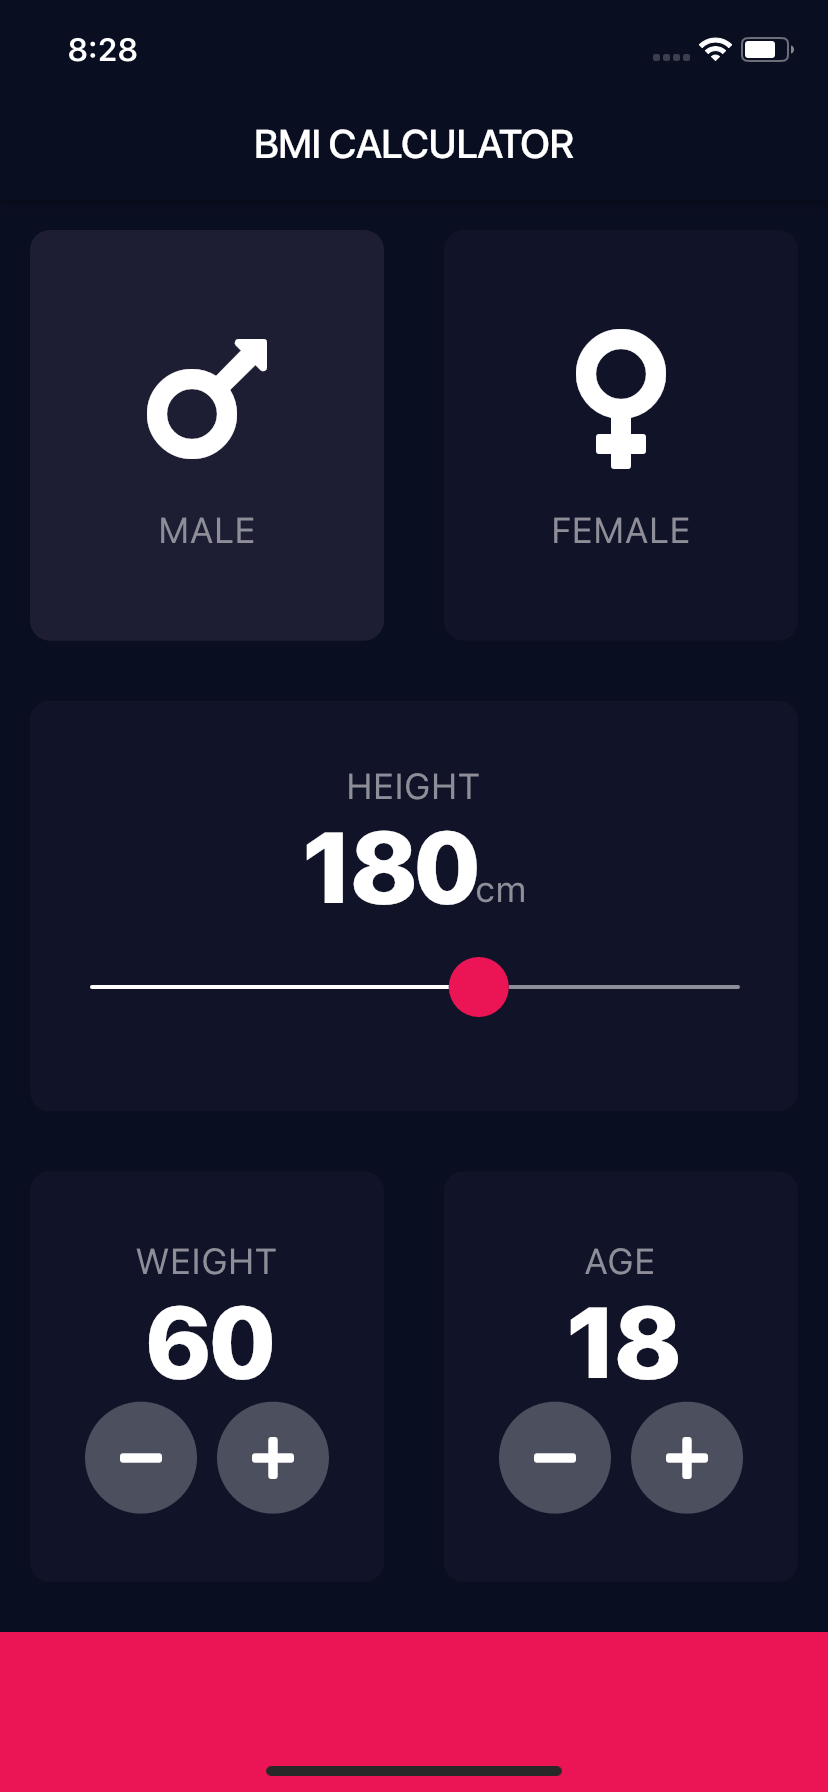
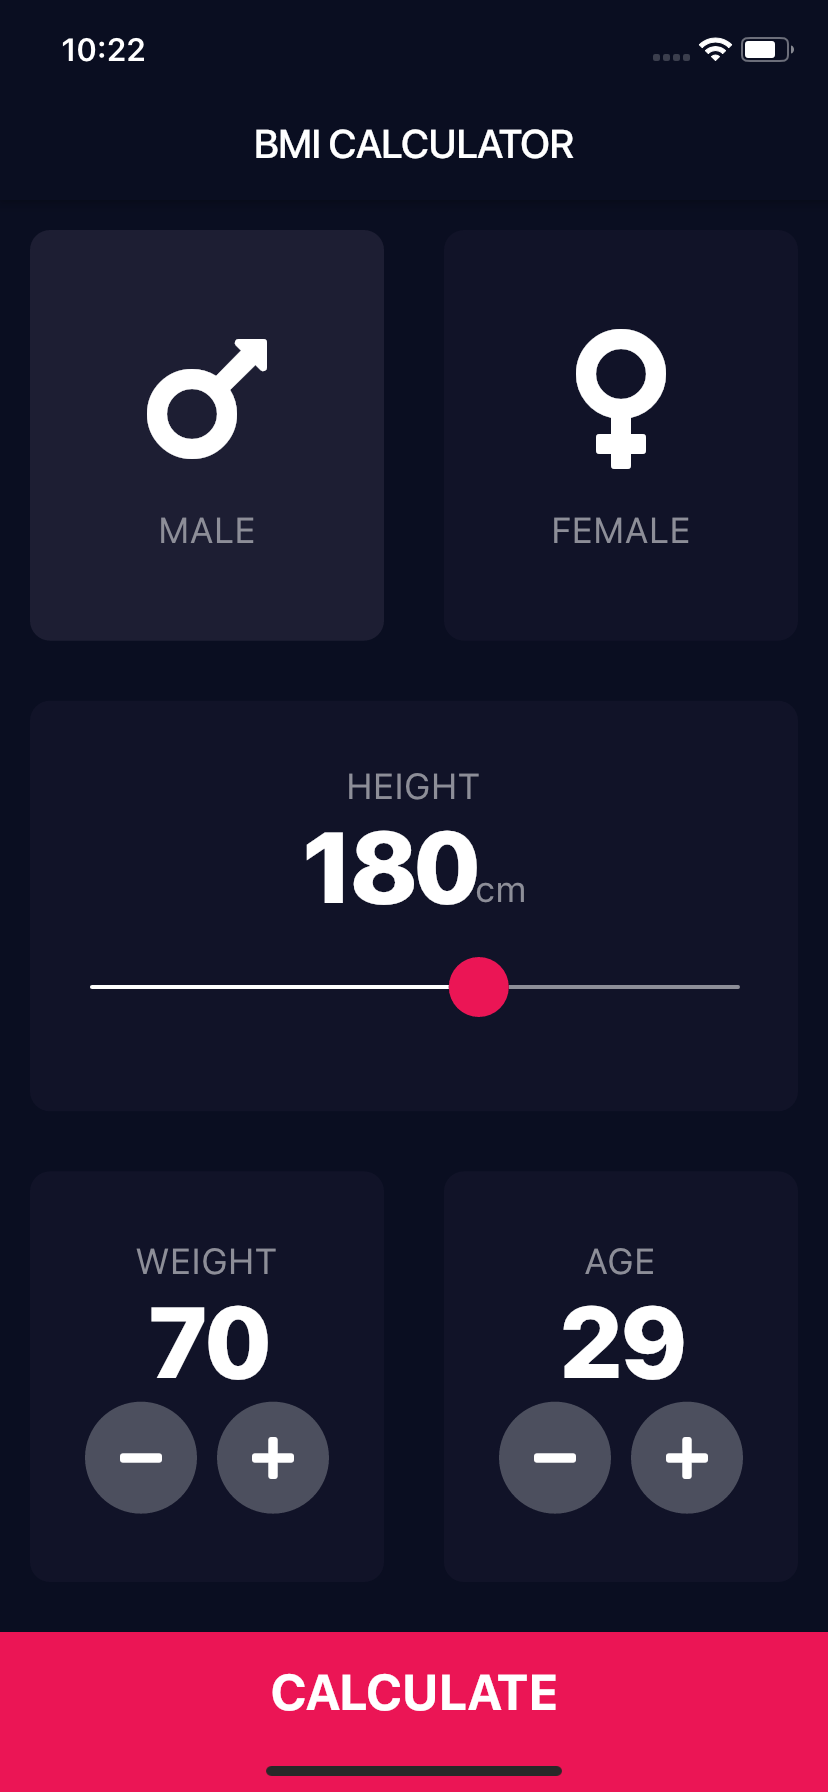
[UPDATE] final BMI Calculator

diff --git a/chapter_8/bmi-calculator-flutter/lib/screens/results_page.dart b/chapter_8/bmi-calculator-flutter/lib/screens/results_page.dart
@@ -5,12 +5,14 @@ import 'package:bmi_calculator/constants.dart';
 import 'package:bmi_calculator/screens/input_page.dart';
 
 class ResultsPage extends StatelessWidget {
-  ResultsPage({this.gender, this.height, this.weight, this.age});
+  ResultsPage(
+      {@required this.resultText,
+      @required this.bmiResult,
+      @required this.interpretation});
 
-  final Gender gender;
-  final int height;
-  final int weight;
-  final int age;
+  final String resultText;
+  final String bmiResult;
+  final String interpretation;
 
   @override
   Widget build(BuildContext context) {
@@ -24,6 +26,8 @@ class ResultsPage extends StatelessWidget {
           children: <Widget>[
             Expanded(
               child: Container(
+                padding: EdgeInsets.all(15.0),
+                alignment: Alignment.bottomLeft,
                 child: Text(
                   'Your Result',
                   style: kTitleTextStyle,
@@ -39,15 +43,15 @@ class ResultsPage extends StatelessWidget {
                   crossAxisAlignment: CrossAxisAlignment.center,
                   children: <Widget>[
                     Text(
-                      'NORMAL',
+                      resultText.toUpperCase(),
                       style: kResultTextStyle,
                     ),
                     Text(
-                      '18.3',
+                      bmiResult,
                       style: kBMITextStyle,
                     ),
                     Text(
-                      'Your BMI is quite low, you should eat more!',
+                      interpretation,
                       textAlign: TextAlign.center,
                       style: kBodyTextStyle,
                     )

diff --git a/chapter_8/bmi-calculator-flutter/lib/screens/input_page.dart b/chapter_8/bmi-calculator-flutter/lib/screens/input_page.dart
@@ -6,6 +6,7 @@ import 'package:bmi_calculator/components/icon_content.dart';
 import 'package:bmi_calculator/components/round_icon_button.dart';
 import 'package:font_awesome_flutter/font_awesome_flutter.dart';
 import 'package:bmi_calculator/constants.dart';
+import 'package:bmi_calculator/calculator_brain.dart';
 
 enum Gender {
   male,
@@ -216,14 +217,16 @@ class _InputPageState extends State<InputPage> {
           BottomButton(
             label: 'CALCULATE',
             onPress: () {
+              CalculatorBrain calc =
+                  CalculatorBrain(height: height, weight: weight);
+
               Navigator.push(
                 context,
                 MaterialPageRoute(
                   builder: (context) => ResultsPage(
-                    gender: selectedGender,
-                    height: height,
-                    weight: weight,
-                    age: age,
+                    resultText: calc.getResults(),
+                    bmiResult: calc.calculateBMI(),
+                    interpretation: calc.getInterpretation(),
                   ),
                 ),
               );

diff --git a/chapter_8/bmi-calculator-flutter/lib/calculator_brain.dart b/chapter_8/bmi-calculator-flutter/lib/calculator_brain.dart
@@ -1,0 +1,38 @@
+import 'dart:math';
+
+class CalculatorBrain {
+  CalculatorBrain({this.height, this.weight});
+
+  final int height;
+  final int weight;
+
+  double _bmi;
+
+  String calculateBMI() {
+    _bmi = weight / pow(height / 100, 2);
+    return _bmi.toStringAsFixed(1);
+  }
+
+  String getResults() {
+    if (_bmi == null) {
+      calculateBMI();
+    }
+    if (_bmi >= 25.0) {
+      return 'OVERWEIGHT';
+    } else if (_bmi > 18.5) {
+      return 'NORMAL';
+    } else {
+      return 'UNDERWEIGHT';
+    }
+  }
+
+  String getInterpretation() {
+    if (_bmi >= 25.0) {
+      return 'You have a higher than normal body weight. Try to exercise more.';
+    } else if (_bmi > 18.5) {
+      return 'You have a normal body weight. Good job!';
+    } else {
+      return 'You have a lower than normal body weight. You should eat a bit more´.';
+    }
+  }
+}
